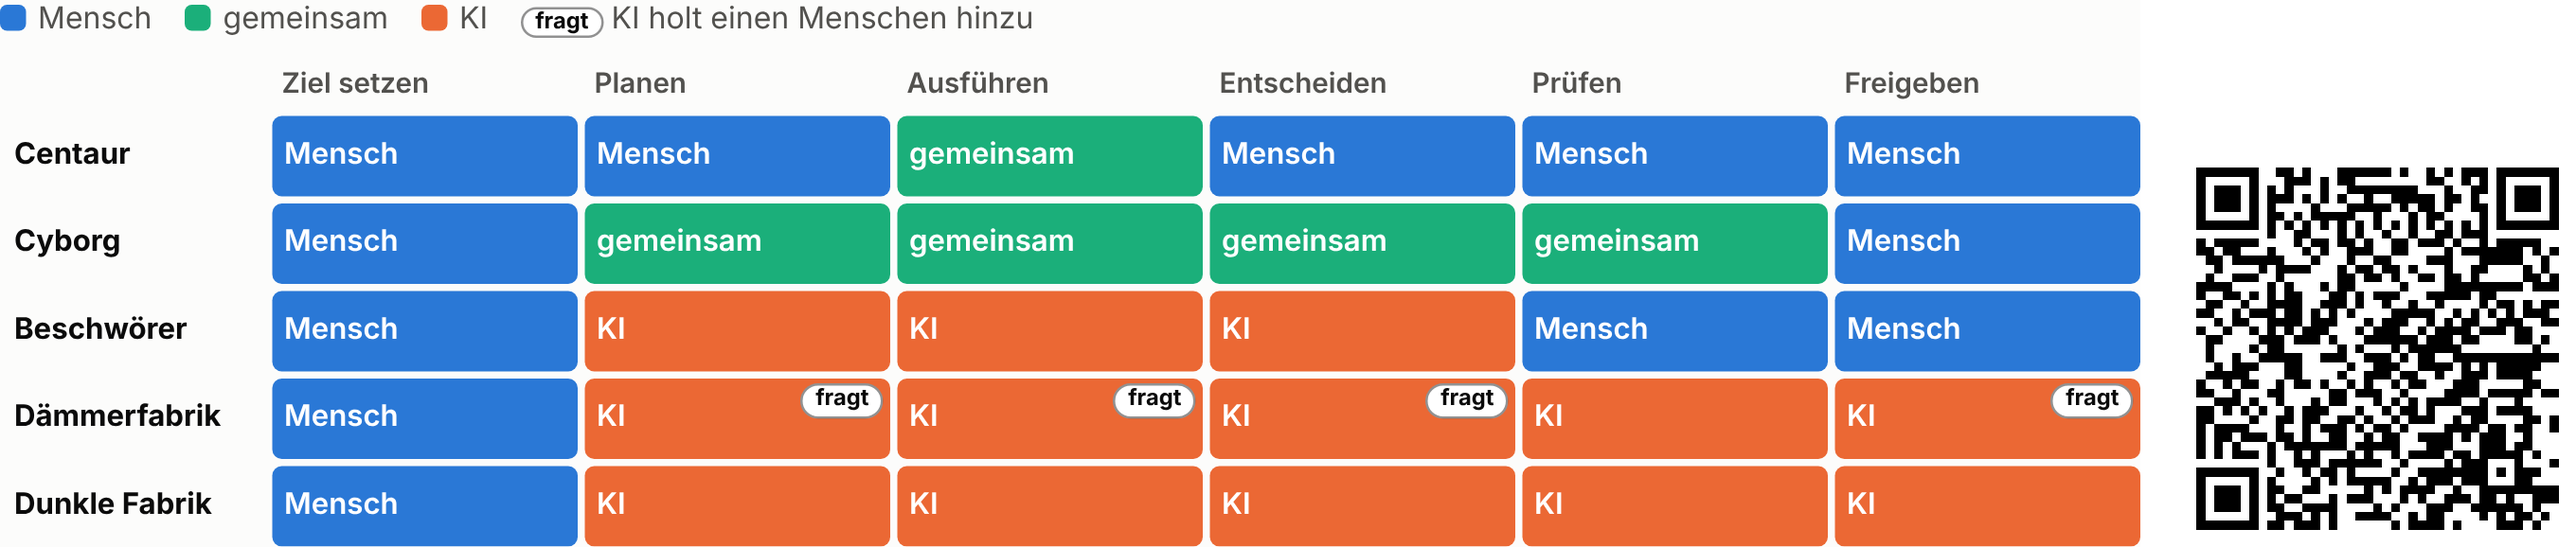
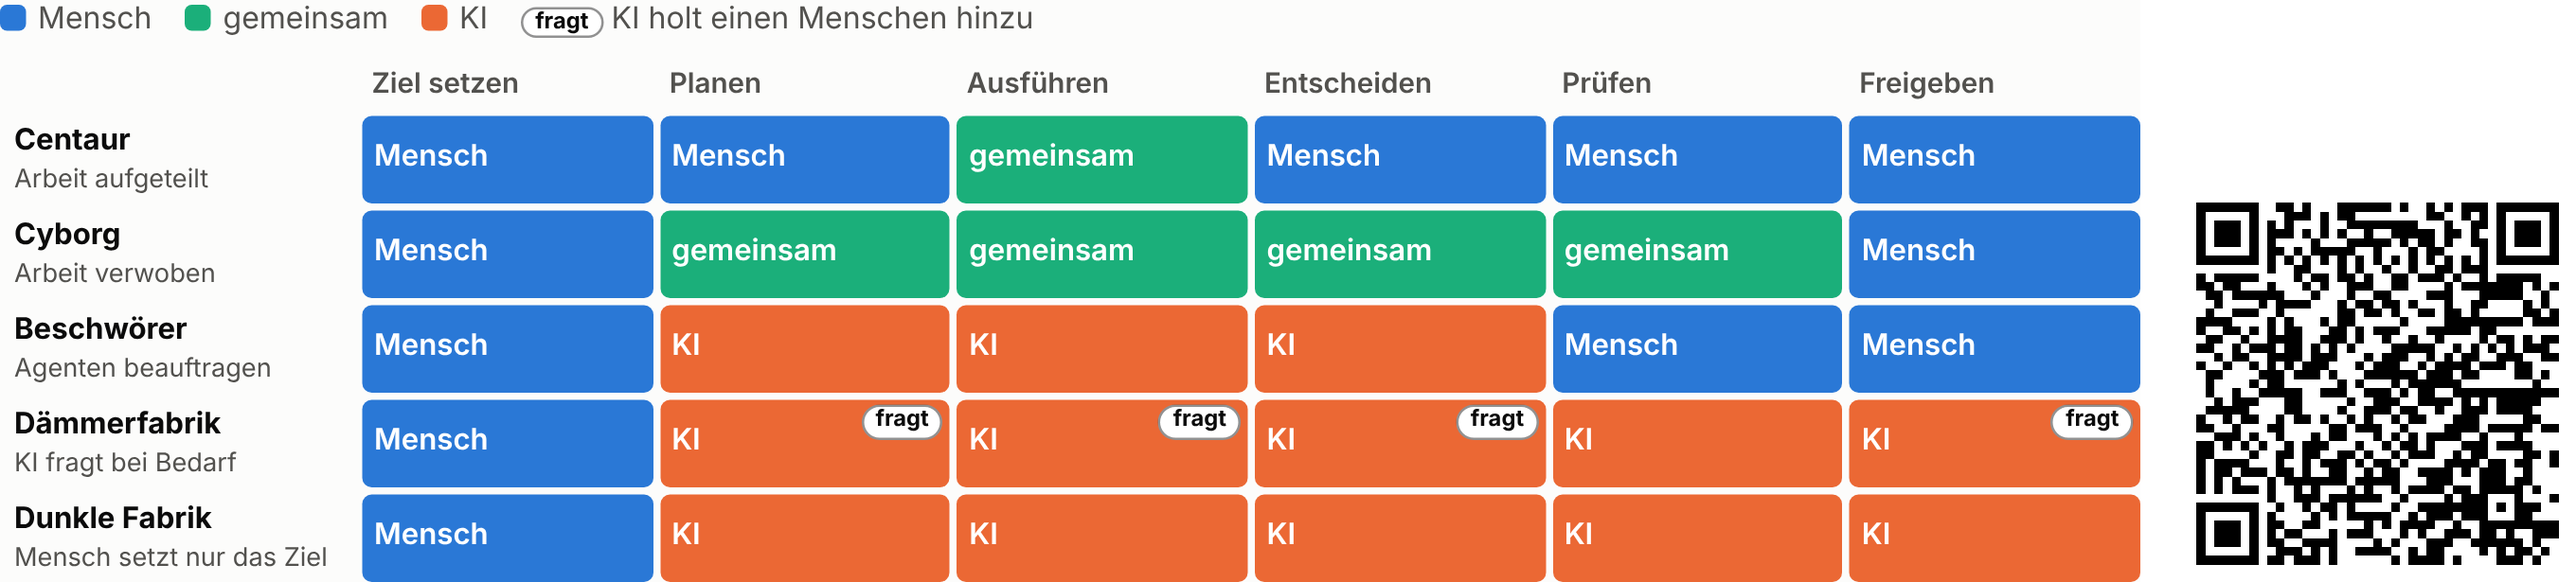
Arbeitsweisen-Diagramm: Kurzbeschreibung unter jedem Namen; Beschwörer-Satz am Original (Mollick, 20.10.2026) korrigiert
Claude-Session: https://claude.ai/code/session_01NiJQCVJzVcV5F6SgFHRrXZ

Changed region(s): [[0.0, 0.1246, 1.0, 1.0], [0.1875, 0.0, 0.4062, 0.0623], [0.0, 0.0, 0.1562, 0.0623]]

diff --git a/interactions/ki-entwicklung.html b/interactions/ki-entwicklung.html
@@ -38,9 +38,10 @@ table{border-collapse:collapse;width:100%;margin-top:6px}th,td{text-align:left;p
 .legend{display:flex;flex-wrap:wrap;gap:6px 14px;font-size:.8rem;color:var(--text-secondary);margin:0 0 6px}
 .sw{display:inline-block;width:11px;height:11px;border-radius:3px;vertical-align:-1px;margin-right:5px}
 .gwrap{overflow-x:auto}
-.grid3{display:grid;grid-template-columns:112px repeat(6,minmax(66px,1fr));gap:3px;font-size:.78rem;min-width:540px}
+.grid3{display:grid;grid-template-columns:150px repeat(6,minmax(66px,1fr));gap:3px;font-size:.78rem;min-width:580px}
 .grid3 .hd{color:var(--text-secondary);font-weight:600;padding:2px 4px;font-size:.74rem}
-.grid3 .rowlab{padding:6px 6px;font-weight:650;cursor:pointer;border-radius:6px;display:flex;align-items:center}
+.grid3 .rowlab{padding:4px 6px;font-weight:650;cursor:pointer;border-radius:6px;display:flex;flex-direction:column;justify-content:center;line-height:1.2}
+.grid3 .rowlab small{font-weight:400;font-size:.68rem;color:var(--text-secondary);margin-top:1px}
 .grid3 .rowlab[aria-selected="true"]{background:var(--wash);outline:2px solid var(--text-primary)}
 .grid3 .zeile{display:contents}
 .grid3 .zeile.spaeter>*{opacity:.18}
@@ -54,7 +55,7 @@ table{border-collapse:collapse;width:100%;margin-top:6px}th,td{text-align:left;p
 .chip[aria-pressed="true"]{background:var(--text-primary);color:var(--surface-1)}
 @media (forced-colors:active){.cell{border:1px solid CanvasText}}
 .druck .grid3{min-width:0}
-@media (max-width:599px){:root:not(.druck) .grid3{min-width:0;grid-template-columns:86px repeat(6,1fr);font-size:.7rem}:root:not(.druck) .cell{font-size:0;min-height:30px}:root:not(.druck) .cell .ask{font-size:9px;padding:0 3px}.grid3 .hd{font-size:.64rem;hyphens:auto;overflow-wrap:anywhere}}
+@media (max-width:599px){:root:not(.druck) .grid3{min-width:0;grid-template-columns:104px repeat(6,1fr);font-size:.7rem}:root:not(.druck) .cell{font-size:0;min-height:30px}:root:not(.druck) .cell .ask{font-size:9px;padding:0 3px}.grid3 .hd{font-size:.64rem;hyphens:auto;overflow-wrap:anywhere}}
 footer{font-size:.72rem;color:var(--muted)}footer p{margin:0 0 3px;padding-left:1.5em;text-indent:-1.5em}
 /* Auswahl über ?zeige=zeithorizont|kosten|arbeitsweisen; Druckansicht über #druck */
 .aus{display:none !important}
@@ -288,14 +289,14 @@ function draw2(){
 /* ---- Diagramm 3: Arbeitsweisen nach Mollick (Konzeptschema, eigene Zuordnung der Schritte) ---- */
 const SCHRITTE=['Ziel setzen','Planen','Ausführen','Entscheiden','Prüfen','Freigeben'];
 const WEISEN=[
- {k:'cen',n:'Centaur',c:[['M'],['M'],['MK'],['M'],['M'],['M']],
+ {k:'cen',n:'Centaur',t:'Arbeit aufgeteilt',c:[['M'],['M'],['MK'],['M'],['M'],['M']],
   e:'Mensch und KI teilen die Aufgabe in getrennte Teile. Jede Entscheidung bleibt beim Menschen.'},
- {k:'cyb',n:'Cyborg',c:[['M'],['MK'],['MK'],['MK'],['MK'],['M']],
+ {k:'cyb',n:'Cyborg',t:'Arbeit verwoben',c:[['M'],['MK'],['MK'],['MK'],['MK'],['M']],
   e:'Mensch und KI arbeiten so verwoben, dass sich die Beiträge nicht mehr trennen lassen.'},
- {k:'bes',n:'Beschwörer',c:[['M'],['K'],['K'],['K'],['M'],['M']],
+ {k:'bes',n:'Beschwörer',t:'Agenten beauftragen',c:[['M'],['K'],['K'],['K'],['M'],['M']],
   e:'Der Mensch beauftragt Agenten und bewertet, was zurückkommt. Den Weg dorthin begleitet er nicht mehr.'},
- {k:'dae',n:'Dämmerfabrik',c:null,e:''},
- {k:'dun',n:'Dunkle Fabrik',c:[['M'],['K'],['K'],['K'],['K'],['K']],
+ {k:'dae',n:'Dämmerfabrik',t:'KI fragt bei Bedarf',c:null,e:''},
+ {k:'dun',n:'Dunkle Fabrik',t:'Mensch setzt nur das Ziel',c:[['M'],['K'],['K'],['K'],['K'],['K']],
   e:'Menschen legen nur fest, was entstehen soll. Ausführen und Prüfen übernehmen Maschinen, was nur gelingt, wo eine Maschine prüfen kann, ob das Ergebnis stimmt.'}];
 // Anlässe der Dämmerfabrik und der Schritt, an dem sie greifen (eigene Zuordnung)
 const ANL=[{k:'var',l:'Ideenvielfalt',st:1,w:'die Ideen zu gleichförmig werden'},{k:'exp',l:'Expertise',st:2,w:'Fachwissen fehlt'},{k:'int',l:'Interessante Entscheidung',st:3,w:'eine Entscheidung interessant ist'},{k:'fre',l:'Freigabe',st:5,w:'eine Freigabe nötig ist'}];
@@ -318,7 +319,7 @@ function draw3(){const g=document.getElementById('g3');g.innerHTML='';
   const kopf=document.createElement('div');kopf.className='zeile';kopf.setAttribute('role','row');g.appendChild(kopf);
   ['',...SCHRITTE].forEach(t=>{const d=document.createElement('div');d.className='hd';d.setAttribute('role','columnheader');d.textContent=t;kopf.appendChild(d);});
   WEISEN.forEach((w,j)=>{const z=document.createElement('div');z.className='zeile'+(!druck&&j>bis3?' spaeter':'');z.setAttribute('role','row');g.appendChild(z);
-    const l=document.createElement('div');l.className='rowlab';l.setAttribute('role','rowheader');l.tabIndex=0;l.textContent=w.n;
+    const l=document.createElement('div');l.className='rowlab';l.setAttribute('role','rowheader');l.tabIndex=0;l.textContent=w.n;const tt=document.createElement('small');tt.textContent=w.t;l.appendChild(tt);
     l.setAttribute('aria-selected',!druck&&j===sel3);l.onclick=()=>{stop3();waehle(j);};
     l.onkeydown=e=>{if(e.key==='Enter'||e.key===' '){e.preventDefault();stop3();waehle(j);}};z.appendChild(l);
     const zellen=w.c?w.c.map(x=>[x[0],x[1]||null,[]]):daeZellen();
